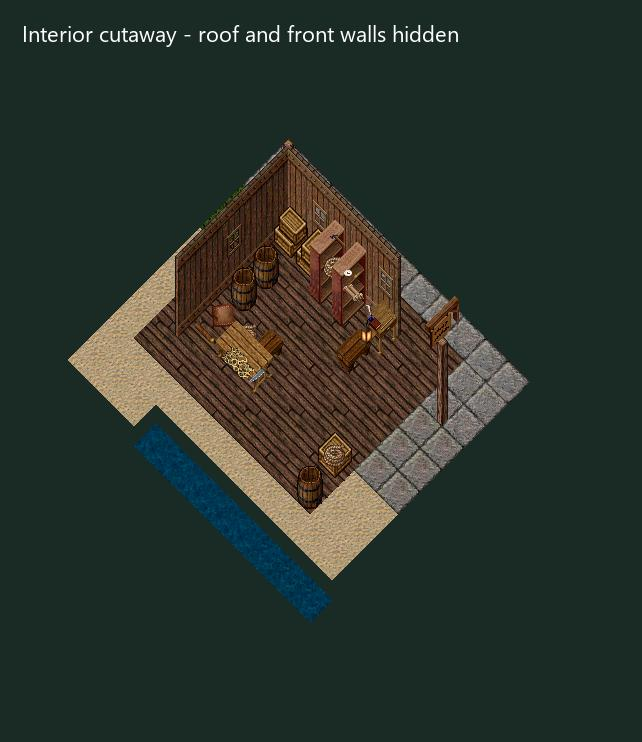
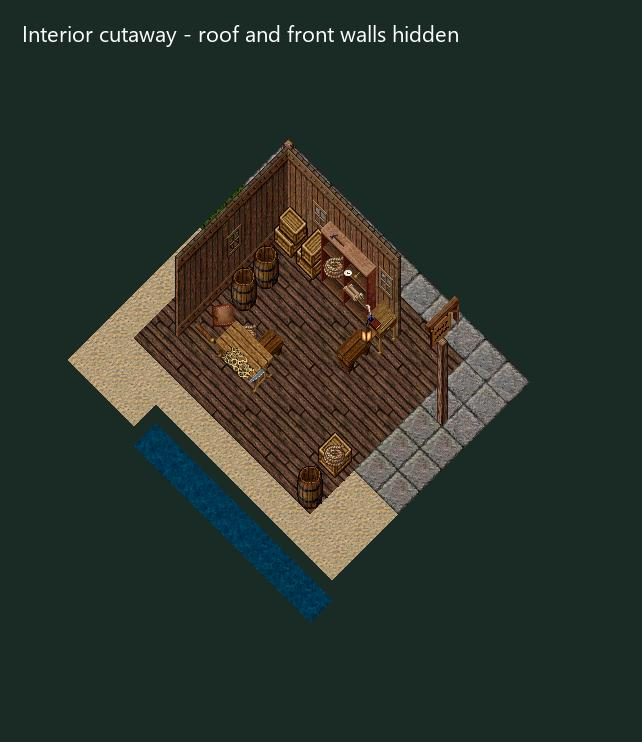
Face chandlery shelves into the room

Changed region(s): [[0.4673, 0.279, 0.5919, 0.434]]

diff --git a/tools/plan-corsair-storehouse.py b/tools/plan-corsair-storehouse.py
@@ -50,8 +50,8 @@ for y in (139, 140):
     add('provision barrel', 0xE77, 94, y)
 add('dry provisions', 0x1039, 94, 141)
 add('spare boards', 0x1BDD, 94, 142)
-add('rigging shelf', 0xA9E, 96, 138)
-add('rigging shelf', 0xA9E, 97, 138)
+add('rigging shelf', 0xA9D, 96, 138)
+add('rigging shelf', 0xA9D, 97, 138)
 add('shelf rope', 0x14F8, 96, 138, 6)
 add('shelf cloth', 0xE34, 97, 138, 6)
 add('shelf tools', 0x102A, 96, 138, 12)
@@ -80,3 +80,4 @@ if __name__ == '__main__':
     args=p.parse_args()
     args.output.write_text(json.dumps(tiles,indent=2)+'\n')
     print(f'{len(tiles)} native-art placements written to {args.output}')
+
